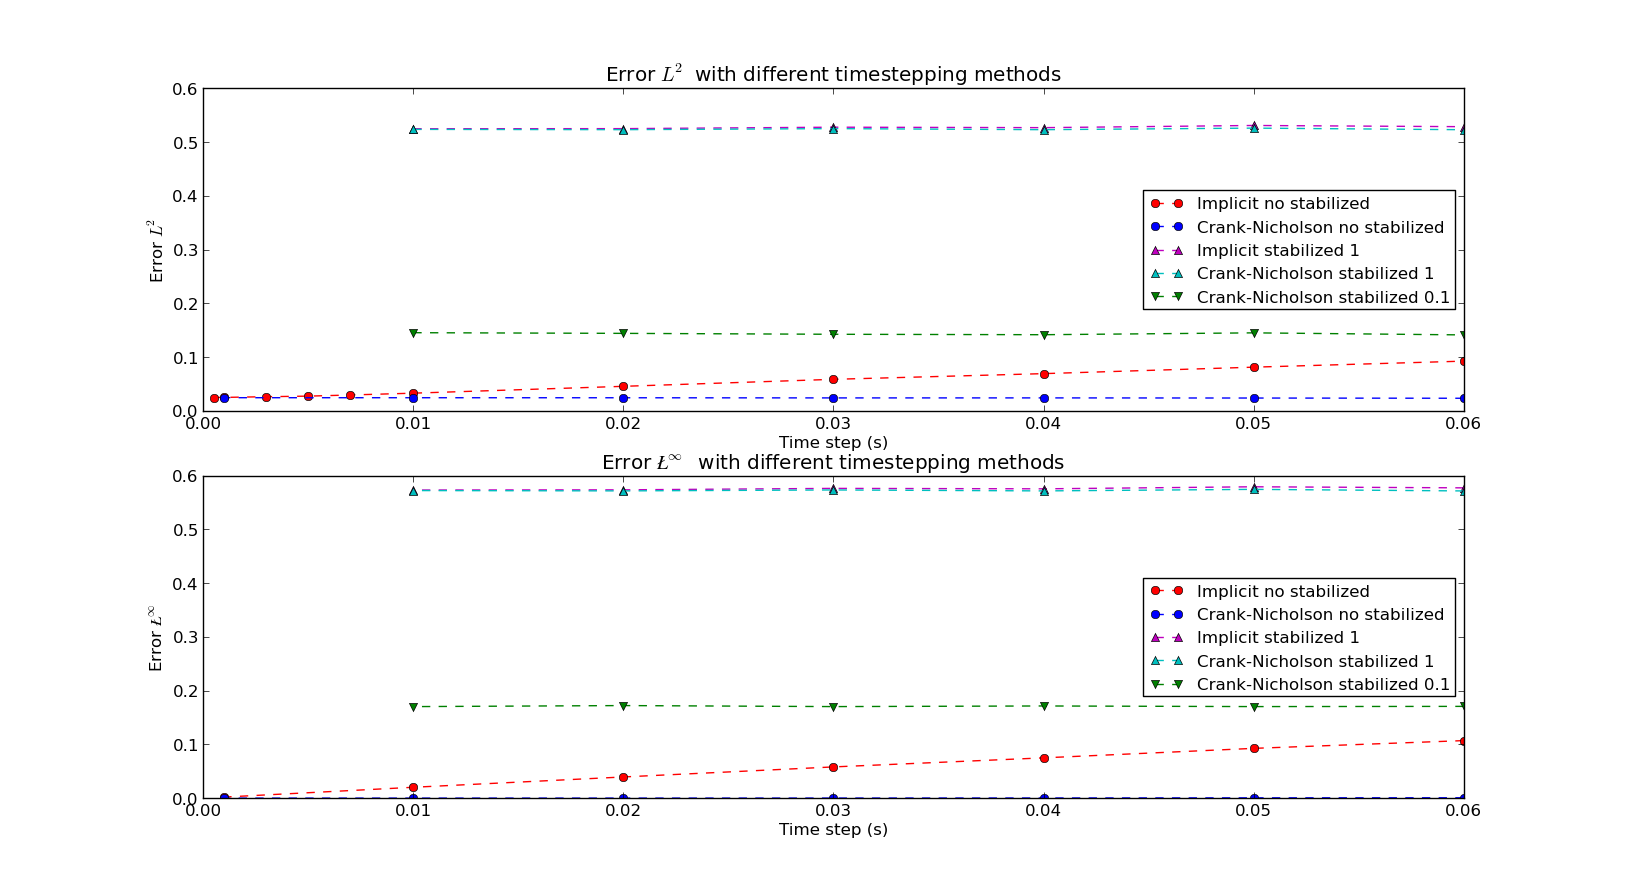
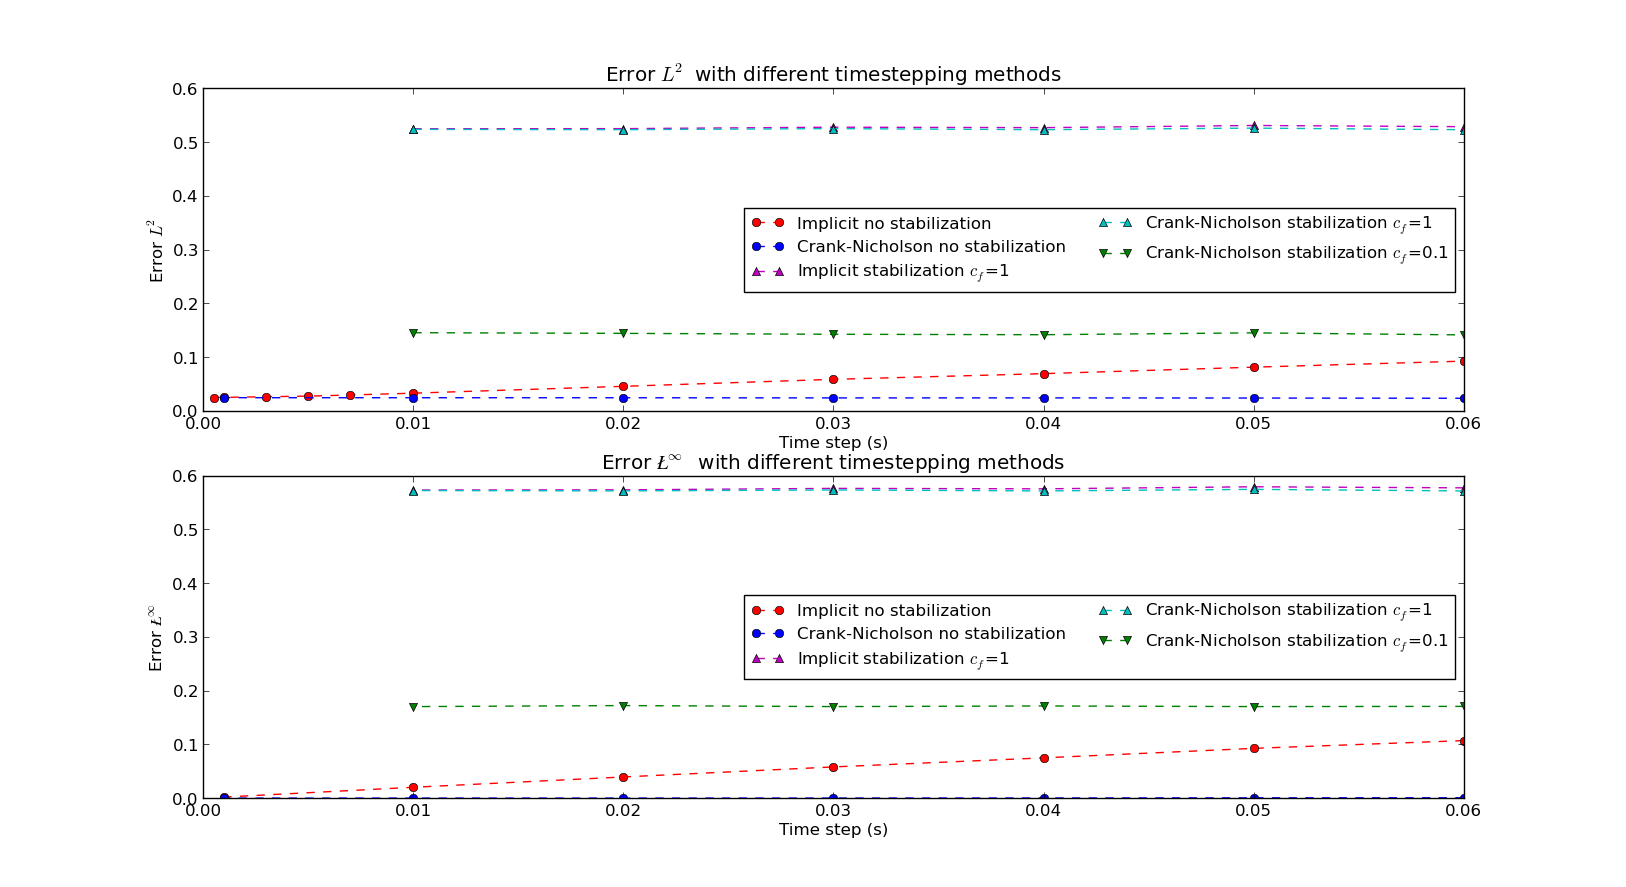
Updated Report and added used pictures.

Changed region(s): [[0.4613, 0.2131, 0.8918, 0.3653], [0.4613, 0.6392, 0.8918, 0.7914]]

diff --git a/Papers/WaveMaker/Report.tex b/Papers/WaveMaker/Report.tex
@@ -88,7 +88,7 @@
 	\end{align}
 	At the free surface $\tilde{z} = \tilde{\eta}(\tilde{x},\tilde{y},\tilde{t})$,	the fluid is also assumed to satisfy the dynamic boundary condition $\tilde{P}(\tilde{x},\tilde{y},\tilde{t}) = \tilde{P}_0(\tilde{x},\tilde{y})$.
 			
-	Considering a characteristic water depth $h_0$ and the corresponding 	characteristic velocity $c_0 = \sqrt{g h_0}$, a typical wavelength $\lambda_0$ and a typical wave height $a_0$, we scale the variables as in \cite{DM2013}: 
+	Considering a characteristic water depth $h_0$ and the corresponding 	characteristic velocity $c_0 = \sqrt{g h_0}$, a typical wavelength $\lambda_0$ and a typical wave height $a_0$, we use the following scaled variables: 
 	\begin{equation*}
 		x = \frac{\tilde{x}}{\lambda_0},\: 
 		y = \frac{\tilde{y}}{\lambda_0}, \:
@@ -230,19 +230,7 @@
 			 &\int_{\Omega}\! \eta_t \; \xi \: \mathrm{dx} +\int_{\Omega}\! \zeta_t \; \xi \: \mathrm{dx} -\int_{\Omega}\! \nabla \xi \; \cdot [(D + \epsilon \zeta+\epsilon\eta) \mathbf{u}]  \: \mathrm{dx} = 0
 		\end{split} 
 	\end{equation}
-			
-	\pagebreak
-
-\subsection{Weak Formulation with inhomogeneous boundary conditions}
-	The main inconvenient of the previous model is that, as the object is moving along the mesh, we need to compute the simulation on a really large domain if we want to model the wave for a long time. A solution to that problem is to consider the object as a static object in a stream of constant velocity $\mathbf{\tilde U} = \tilde{U} \: \mathbf{e_x} $. In that framework, the previous Peregrine system still apply but the weak formulation is slightly different as the boundary conditions have changed. Moreover it is now necessary to impose more boundary conditions on the open boundary, as precised in \cite{}.
 				
-				With $\mathbf{U} = \frac{h_0}{a_0 c_0} \mathbf{\tilde{U}}$, we introduce  $\mathbb{V}' = \left\lbrace \mathbf{w} \in \mathbb{H}^1(\Omega)^2, \mathbf{w} \cdot \mathbf{n} = 0 \: \mathrm{on} \: \partial \Omega_y, \mathbf{w} = \mathbf{0} \: \mathrm{on} \: \partial \Omega_x\right\rbrace $ and $\mathbb{U}' = \left\lbrace \mathbf{w} \in \mathbb{H}^1(\Omega)^2, \mathbf{w} \cdot \mathbf{n} = 0 \: \mathrm{on} \: \partial \Omega_y, \mathbf{w} = -\mathbf{U} \: \mathrm{on} \: \partial \Omega_x\right\rbrace $. As we still have $\mathbf{v} \cdot \mathbf{n} = 0 \: \forall \: \mathbf{v} \in \mathbb{V}'$, the boundary terms resulting from the divergence theorem apply to the last terms of the first equation of \eqref{PeregrineWeakForm1} are still null, but this is not the case for the second equation where we have: 
-				\begin{equation}
-					\int_{\Omega}\! \nabla \cdot [(h+\epsilon\eta) \mathbf{u}] \; \xi \: \mathrm{dx} = - \int_{\Omega}\! \nabla \xi \; \cdot [(h+\epsilon\eta) \mathbf{u}]  \: \mathrm{dx} + \int_{\partial \Omega_x} \! \xi (h+\epsilon \eta) \mathbf{u} \cdot \mathbf{n} \; \mathrm{ds}
-				\end{equation}				
-			
-	\pagebreak
-	
 \subsection{Time stepping methods}	
 	Considering $\mathrm{dt}$ a time-step, the second part is to discretize the time dependency. We will use a $\theta$-method in order to get the possibility to run different time stepping methods. Let $\theta$ be in $[0,1] $ and $f$ be a time-dependent function: 	
 	\begin{equation}
@@ -262,45 +250,141 @@
 			\displaystyle 0 &= \int_{\Omega}\! \frac{\eta - \eta^{n-1}}{\mathrm{dt}} \; \xi \: \mathrm{dx} +\frac{1}{\epsilon}\int_{\Omega}\! h_t \; \xi \: \mathrm{dx} -\int_{\Omega}\! \nabla \xi \; \cdot [(h+\epsilon\eta) \mathbf{u}]  \: \mathrm{dx}
 		\end{split}
 	\end{equation}
-	The non-linear terms are computed by FEniCS, using a Newton Method. 
-	\cite{LoggMardalEtAl2012a}
-	\cite{LoggWellsEtAl2012a}
-	\cite{LoggWells2010a}
-			
-			\pagebreak
-			
-			\subsection{Assessment of the code: the solitary wave test}	
-				To check the code, we use initial conditions which are approximation of a stationary solution for the Peregrine system. 
-				\begin{figure}[!h]
-					\centering
-					\includegraphics[height=8cm]{PeregrineSolitonSolution.jpg}
-					\caption{Initial condition for the velocity and the free surface}
-				\end{figure}
-				
-				For different time stepping methods and using or no different stabilization, we compute the solution and compare it to the initial condition at T=3.0s (during which the soliton moved of about 25 meters). 
-				\begin{figure}[!h]
-				\centering
-						\includegraphics[height=9cm]{ErrorL2L801.png}
-						\caption{Error}
-				\end{figure}
 	
-		\subsection{Stabilization}
-			\pagebreak
-		\subsection{Time stepping methods}
-			We tried two time-stepping methods in our weak formulation:
-			\begin{itemize}
-				\item Implicit method
-				\item Crank-Nicholson schema
-			\end{itemize}
-			The implicit method is more stable than the Crank-Nicholson one, but add dissipation. We can see on the following figure the comparison of those two methods without stabilization and a stabilized simulation.
-			\begin{figure}[!h]
-				 \includegraphics[height=6.5cm]{ComparisonTimestepStabilization}
-			\end{figure}
+	The weak formulation obtained is then solved using the collection of free softwares FEniCS and the main library DOLFIN. Within that computational framework, the non-linear terms are directly computed by DOLFIN, using a Newton Method. For more information on those computing tools, the reader can refer to the following: \cite{LoggMardalEtAl2012a}, \cite{LoggWellsEtAl2012a}, \cite{LoggWells2010a}.
 			
-			\pagebreak				
-	\section{Optimization}
-		In this part we will focus on the optimization of the wave object so as to minimize a given functional characterizing the quality of the final water wave.
-		A typical functional which will be used to assess the wave is the $\mathbb{H}^1$ norm of the height of the free surface  $\eta$ at a final time $T$ over a specific domain $\omega$.
+\subsection{Stabilization}
+	The first resolution of that system using (P2, P1) finite element spaces and two different time stepping methods (implicit with $\theta=1$ and Crank-Nicholson with $\theta = 0.5$)	showed some instabilities issues, especially in the wake of the object. A stabilization method was therefore needed here to solve that problem and we added here some artificial dissipation to the weak formulation:
+	\begin{equation}
+		s((\mathbf{u}, \eta),(\mathbf{v}, \xi)) = c_f h^{\frac{3}{2}}\left(\int_{\Omega}{\! \nabla \mathbf{u} : \nabla \mathbf{v} \: \mathrm{dx}} + \int_{\Omega}{\!\nabla \eta \cdot \nabla \xi \: \mathrm{dx}} \right)
+	\end{equation}
+	where $h$ is the size of the cells in the mesh and $c_f$ a coefficient we can adapt. An important point to take in account with stabilization is the computation time. This added dissipation allows us to run our finite element method with the finite element spaces (P1,P1) instead of (P2,P1), which decreases significantly the calculation time (almost a factor 5 between both).
+	\begin{figure}[!h]
+		\begin{minipage}[t]{0.5\linewidth}
+			\centering
+			\includegraphics[height=4.8cm]{Instabilities.png}
+			\caption{Instabilities with Crank-Nicholson time-stepping method}
+		\end{minipage}
+		\hspace{10pt}
+		\begin{minipage}[t]{0.5\linewidth}
+			\centering
+			\includegraphics[height=4.8cm]{InstabilitiesCorrection.png}
+			\caption{Result with Crank-Nicholson and stabilization with $c_f = 0.1$}
+		\end{minipage}
+	\end{figure}
+		
+\subsection{Assessment of the code: the solitary wave test}	
+	One of the characteristic of the Peregrine system is that it admits a stationary solution that can be computed numerically. An interesting way to assess the code is therefore to compare that soliton with the solution of our code with this stationary solution as initial condition. We used D. DUTYKH's Matlab code to compute the following stationary solution: 
+	\begin{figure}[!h]
+		\centering
+		\includegraphics[height=8cm]{PeregrineSolitonSolution.jpg}
+		\caption{Solitary solution (velocity $\mathbf{u}$ and free surface $\eta$)}
+	\end{figure}		
+			
+	For different time stepping methods and using or no stabilization with different coefficients $c_f$, we compute the solution for different time step values $dt$ and compare it to the initial condition after a fixed final time step, during which the soliton moved of about 25 meters. 
+	\begin{figure}[!h]
+		\centering
+		\includegraphics[height=9cm]{ErrorL2L801.png}
+		\caption{Computation of the error $\mathbb{L}^2$ and $\mathbb{L}^{\infty}$}
+	\end{figure}
+	
+	\begin{figure}[!h]
+		\centering
+		\includegraphics[height=4cm]{SolitonSolution.png}
+		\caption{Computed soliton solution at final time for implicit (in red) and Crank-Nicholson (in blue) time stepping methods}
+	\end{figure}
+	
+	The Crank-Nicholson time stepping method gives good results, with an $\mathbb{L}^2$-error and an $\mathbb{L}^{\infty}$-error inferior as $3\%$, whereas the implicit time stepping method generates dissipation with an error $\mathbb{L}^2$ which increases with the time step. The stabilization induces more important errors for the mesh used here is not very refined. The size of the cells is here fixed for a computational reason (the Matlab results need to be read by FEniCS through a Python code). However in the real simulations, we use a more refined mesh which reduces the impact of stabilization as we can see in the following part. 
+				
+\subsection{Simulations and results}
+	The following simulations were run using the following characteristics: \\
+	\begin{tabular}{|l|r|}
+		Pouet & Pouet	\\
+		FILL THE TABULAR WITH VALUES &
+	\end{tabular}\\
+	and the following object and trajectory:
+	\begin{figure}[!h]
+		\begin{minipage}[t]{0.5\linewidth}
+			\centering
+			\includegraphics[height=4.5cm]{ObjectUsedModified.png}
+			\caption{Object from different angles}
+		\end{minipage}
+		\hspace{10pt}
+		\begin{minipage}[t]{0.5\linewidth}
+			\centering
+			\includegraphics[height=4.5cm]{ObjectTraj.png}
+			\caption{Trajectory of the object (with real dimensions)}
+		\end{minipage}
+	\end{figure}
+	
+\begin{itemize}
+	\item Crank-Nicholson time stepping method without stabilization
+	\begin{figure}[!h]
+		\begin{minipage}[t]{0.3\linewidth}
+			\centering
+			\includegraphics[width=5.5cm]{CNNoStabilized150.png}
+		\end{minipage}
+		\begin{minipage}[t]{0.3\linewidth}
+			\centering
+			\includegraphics[width=5.5cm]{CNNoStabilized300.png}
+		\end{minipage}
+		\begin{minipage}[t]{0.3\linewidth}
+			\centering
+			\includegraphics[width=5.5cm]{CNNoStabilized400.png}
+		\end{minipage}
+	\end{figure}
+	\item Implicit time stepping method without stabilization
+	\begin{figure}[!h]
+		\begin{minipage}[t]{0.3\linewidth}
+			\centering
+			\includegraphics[width=5.5cm]{ImplicitNoStabilized150.png}
+		\end{minipage}
+		\begin{minipage}[t]{0.3\linewidth}
+			\centering
+			\includegraphics[width=5.5cm]{ImplicitNoStabilized300.png}
+		\end{minipage}
+		\begin{minipage}[t]{0.3\linewidth}
+			\centering
+			\includegraphics[width=5.5cm]{ImplicitNoStabilized400.png}
+		\end{minipage}
+	\end{figure}
+	\item Crank-Nicholson time stepping method with stabilization ($c_f=0.1$)
+	\begin{figure}[!h]
+		\begin{minipage}[t]{0.3\linewidth}
+			\centering
+			\includegraphics[width=5.5cm]{CNStabilized150.png}
+		\end{minipage}
+		\begin{minipage}[t]{0.3\linewidth}
+			\centering
+			\includegraphics[width=5.5cm]{CNStabilized300.png}
+		\end{minipage}
+		\begin{minipage}[t]{0.3\linewidth}
+			\centering
+			\includegraphics[width=5.5cm]{CNStabilized400.png}
+		\end{minipage}
+	\end{figure}
+	\item Crank-Nicholson time stepping method with stabilization ($c_f=1$)
+	\begin{figure}[!h]
+		\begin{minipage}[t]{0.3\linewidth}
+			\centering
+			\includegraphics[width=5.5cm]{CNStabilized1_150.png}
+		\end{minipage}
+		\begin{minipage}[t]{0.3\linewidth}
+			\centering
+			\includegraphics[width=5.5cm]{CNStabilized1_300.png}
+		\end{minipage}
+		\begin{minipage}[t]{0.3\linewidth}
+			\centering
+			\includegraphics[width=5.5cm]{CNStabilized1_400.png}
+		\end{minipage}
+	\end{figure}
+\end{itemize}
+
+	\pagebreak
+	
+\section{Optimization}
+	In this part we will focus on the optimization of the wave object so as to minimize a given functional characterizing the quality of the final water wave.
+	A typical functional which will be used to assess the wave is the $\mathbb{H}^1$ norm of the height of the free surface  $\eta$ at a final time $T$ over a specific domain $\omega$.
 		\begin{equation}
 			\inf_{\zeta_0 \in U_{ad}}\left\{J(\zeta_0)\ = \int_{\omega}{\! j(\eta(T),\zeta_0) \: \mathrm{dx}} \right\}, \: \mathrm{with} \: j(\eta(T),\zeta_0) = \frac{1}{2}(\alpha ||\eta(T)||_{\mathbb{L}^2(\Omega)}^2 + \beta ||\nabla \eta(T)||_{\mathbb{L}^2(\Omega)^2}^2)
 		\end{equation}
